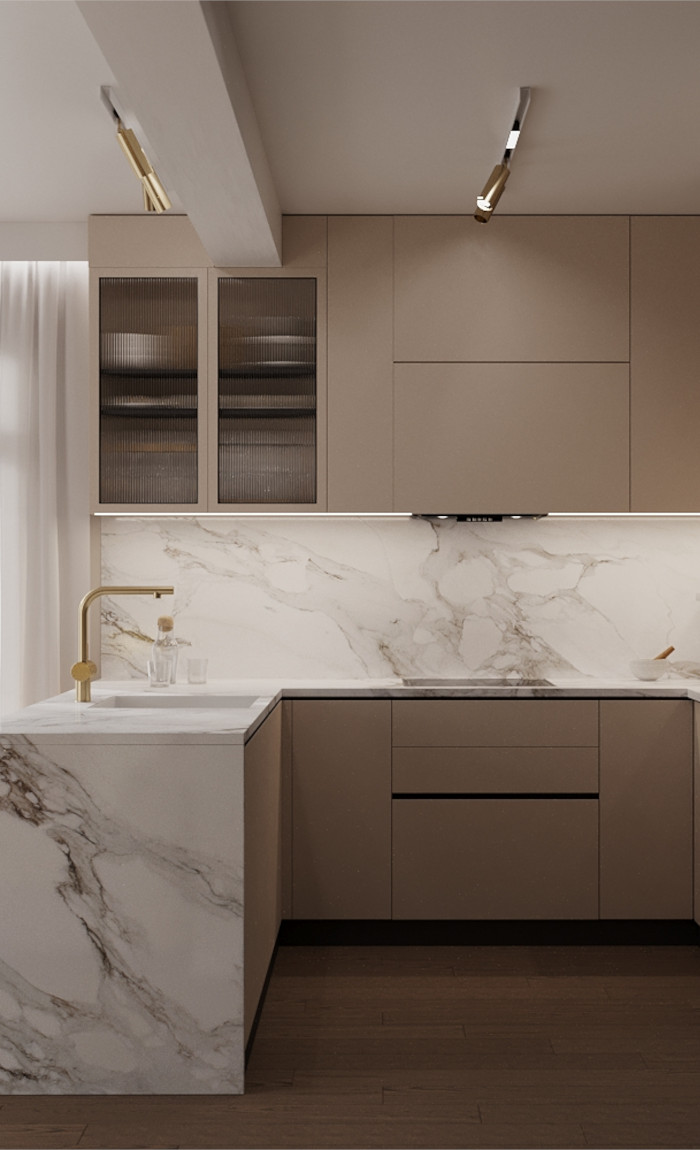
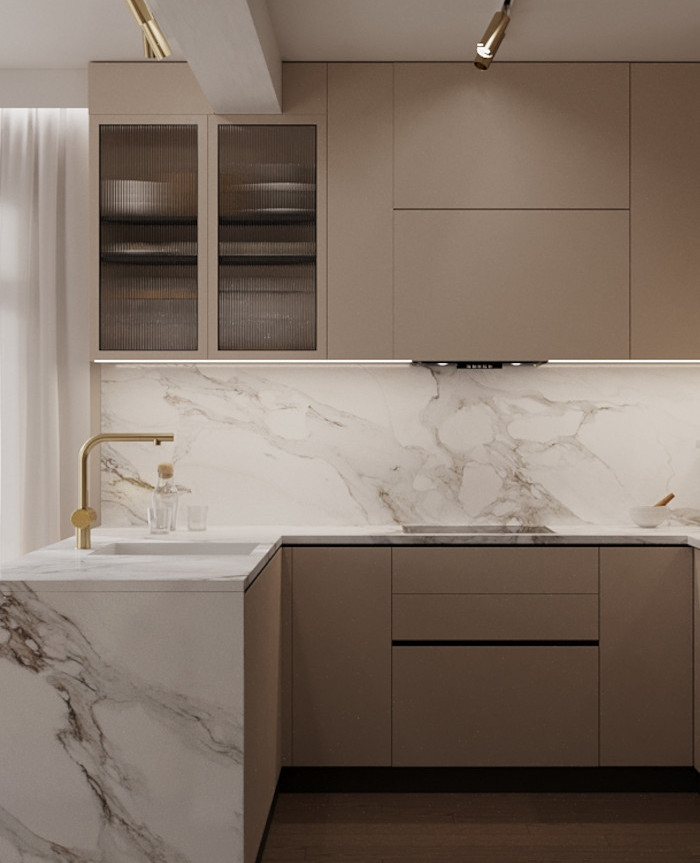
Poprawiony rozmiar strony, edytowane teksty i jpg

diff --git a/oferta.html b/oferta.html
@@ -55,7 +55,7 @@
             </div>
             <div class="row">
                 <div class="col-md-6 col-sm-12" style="padding-left: 15px; padding-right: 15px;">
-                   <img class="img-fluid wow fadeInDown" src="img/photo-1.jpg" alt="Photo">
+                   <img class="img-oferta-arch wow fadeInDown" src="img/arch4.jpg" alt="Photo">
                 </div>
                 <div class="col-md-5 offset-md-1 col-sm-12" style="padding-left: 15px; padding-right: 15px;">
                    <p>
@@ -100,78 +100,14 @@
                    </p>
                 </div>
                 <div class="col-md-6 col-sm-12">
-                    <img class="img-fluid wow fadeInDown" src="img/photo-2.jpg" alt="Photo">
+                    <img class="img-oferta wow fadeInDown" src="img/biuro-4.JPG" alt="Photo">
                  </div>
              </div>
            </div>
         </div>
      </div>
     </div>
-     <!-- End Contact -->
 
-
-
-
-
-
-<!--
-
-
-      <div class="container studio" style="padding-top: 65px; padding-bottom: 30px;">
-         <img src="img/jak-dzialamy.png" id="titlerphoto" class="wow fadeInDown">
-         <div class="row justify-content-center" >
-            <div class="col-md-8 col-sm-12 wow fadeInDown">
-               <p>Nasz zespół tworzą osoby doświadczone, zarówno inżynierzy architekci, wizualizatorzy jak i projektanci – absolwenci Akademii Sztuk Pięknych.
-
-                  Mając odmienne podejścia do projektowania, dopełniamy się nawzajem, tworząc niebanalne wnętrza i architekturę. Na stałe współpracujemy z inżynierami branży sanitarnej, czy elektrycznej.
-                  
-                  Bogate doświadczenie i wiedza pozwalają nam przekuć najśmielsze idee w obiekty dostosowane do potrzeb naszych klientów.  
-               </p>
-               <p>Na każdym etapie realizacji, najwaniejszy składnikiem pracy jest klient - dobierając każdy element, chcemy, aby finalnie projekt architektoiczny lub aranżacja spełniały jego oczekiwania. 
-               </p>
-            </div>
-         </div>
-      </div>
-      <div class="container">
-         <img src="img/wnetrza.png" id="titlerphoto" class=" wow fadeInDown">
-         <div class="row"> 
-            <div class="col-xl-5 col-md-7 col-sm-12  wow fadeInDown">
-               <img class="img-fluid wow fadeInDown" src="img/photo-1.jpg" alt="Photo">
-                </div>
-               
-               <p>Wizualizacja łazienki w mieszkaniu
-               </p>
-               <div class="col-md-5 offset-md-1 col-sm-12">
-
-            </div>
-            </div>
-            <img src="img/architektura.png" id="titlerphoto" class="wow fadeInDown">
-         <div class="row">
-            <div class="col-xl-5 col-md-7 offset-md-4 col-sm-12 pt-5  wow fadeInDown">
-               <img class="img-fluid wow fadeInDown" src="img/photo-2.jpg" alt="Photo">
-               <p>Architektoniczny projekt domu jednorodzinnego</p>
-            </div>
-            <div class="col-md-14 col-sm-12">
-               <p>
-                  Każda inwestycja to indywidualny proces działania zależny od pomysłu klienta, możliwości terenowych w oparciu o prawo budowlane oraz warunki techniczne.
-Wyróżnia nas działanie kompleksowe, od fazy analizy działki czy też obiektu istniejącego, poprzez koncepcję, fazę projektową, gdzie uzyskujemy w imieniu klienta wszelkie niezbędne uzgodnienia, decyzje, opinie (tj.: decyzje o warunkach przyłączenia do sieci, decyzje konserwatorska/ archeologiczna, uzgodnienia z rzeczoznawcami ppoż, do spraw higieniczno sanitarnych i inne zależnie od inwestycji) po uzyskanie pozwolenia na budowę i nadzór autorski nad realizacją.
-Współpracujemy ze sprawdzonymi specjalistami z branży elektrycznej, sanitarnej, drogowej i konstruktorami. Wspólnie przygotowujemy wielobranżowy projekt budowlany i wykonawczy. Pomagamy inwestorom również w formalnościach związanych z rozpoczęciem prac budowlanych.
-Dajemy gwarancję naszym klientom, że ich inwestycje są we właściwych rękach i są realizowane zgodne z przepisami prawa budowlanego oraz warunkami technicznymi.
-               </p>
-               </div>
-         </div>
-      </div>
-      <div class="container studio">
-         <div class="row justify-content-center">
-            <div class="col-md-8 col-sm-12 wow fadeInDown">
-               <p>
-                  Podchodząc do każdego klienta indywidualnie, możemy skupić się na każdym aspekcie realizacji, tak, aby finalny efekt, był idealnym odzwierciedleniem projektu.
-                 Oprócz kwestii estetycznych, znaczącą rolę odgrywa ergonomia i bezpieczeństwo, a także kwestie prawne. 
-               </p>
-            </div>
-         </div>
-      </div>
-      -->
       <!-- End Studio -->
       <!-- Javascript -->
       <script src="vendor/jquery.min.js"></script>

diff --git a/studio.html b/studio.html
@@ -63,15 +63,21 @@
          <img src="img/wnetrza.png" class="titler2photo wow fadeInDown">
          </div>
          <div class="row" style="padding-left: 30px; padding-right: 30px;">
-            <div class="col-xl-5 col-md-7 col-sm-12  wow fadeInDown">
-               <img class="img-fluid wow fadeInDown" src="img/photo-1.jpg" alt="Photo">
-               <p>Wizualizacja łazienki w mieszkaniu</p>
+            <div class="col-xl-5 col-md-7 offset-md-2 col-sm-12 pt-5  wow fadeInDown">
+               <img class="img-pion wow fadeInDown" src="img/wnętrze-17.jpg" alt="Projekt aranżacji kuchni w mieszkaniu">
+               <p>Wizualizacja kuchni w mieszkaniu</p>
             </div>
             <div class="col-md-14 col-sm-12" >
             <p>Wykonujemy projekty aranżacji mieszkań, domów, apartamentów inwestycyjnych. willi luksusowych, pomieszczeń biurowych i innych lokali usługowych.
                Proponujemy kompleksową współpracę od koncepcji po realizację. Po akceptacji oferty rozpoczynamy od dobrej kawy oraz sesji w naszym biurze. Podczas tzw. "burzy mózgów" poznajemy dokładnie potrzeby klienta co do funkcjonalności danych pomieszczeń oraz upodobania kolorystyczno materiałowe. Jeśli jest możliwość przeprowadzamy pomiar pomieszczeń z natury
                W pierwszej kolejność tuż po spotkaniu przygotowujemy zestaw wizualizacji podsumowujący nasze ustalenia z sesji. Po 2-3 poprawkach dochodzimy do rozwiązania w pełni satysfakcjonującego klienta.
                Po akceptacji wizualizacji przechodzimy do przygotowania szczegółowych rysunków technicznych obejmujących poza architekturą instalacje elektryczne, instalacje sanitarne oraz rysunki wykonawcze zabudów meblowych.
+               </p>
+               <div class="col-xl-5 col-md-7 offset-md-4 col-sm-12 pt-5  wow fadeInDown">
+                  <img class="img-poziom wow fadeInDown" src="img/wnętrze-13.jpg" alt="Photo">
+                  <p>Salon w mieszkaniu trzypokojowym</p>
+               </div>
+               <p>
                Etap projektowy kończymy przygotowaniem zestawienia materiałów wraz z ofertami zewnętrznymi na wszystkie elementy zaprojektowane we wnętrzach. współpracujemy m.in. ze sprawdzonymi stolarzami, dostawcami oświetlenia, mebli gotowych, z producentami drzwi i podłóg.
                W skład projektu wchodzą zatem: fotorealistyczne wizualizacje, rysunki techniczne dla wykonawców, zestawienia materiałów wraz z miejscem i ceną zakupu lub zestawienia pod budżet wedle potrzeb inwestora.
                Towarzyszymy również naszym klientom przez cały okres wykończenia inwestycji nadzorując prace wykonawców oraz logistykę zamówień i dostaw. Czuwamy jednocześnie nad prawidłową realizacją zgodną z projektem oraz wyznaczonym przez klienta budżetem.
@@ -82,8 +88,8 @@
             <img src="img/architektura.png" class="titler2photo wow fadeInDown">
             </div>
          <div class="row" style="padding-left: 30px; padding-right: 30px;">
-            <div class="col-xl-5 col-md-7 offset-md-4 col-sm-12 pt-5  wow fadeInDown">
-               <img class="img-fluid wow fadeInDown" src="img/photo-2.jpg" alt="Photo">
+            <div class="col-xl-5 col-md-7 offset-md-5 col-sm-12 pt-5  wow fadeInDown">
+               <img class="img-poziom wow fadeInDown" src="img/arch1.jpg" alt="Photo">
                <p>Architektoniczny projekt domu jednorodzinnego</p>
             </div>
             <div class="col-md-14 col-sm-12">

diff --git a/works.html b/works.html
@@ -52,10 +52,11 @@
          </div>
          <div class="row justify-content-center" style="padding-left: 30px; padding-right: 30px">
             <div class="col-md-8 col-sm-12 wow fadeInDown" style="padding-bottom: 100px">
-               <p style="text-align: justify;">Moya Engineering zostało założone w 2010 roku przez Martę Jasinowską-Czapską, architekta i kreatora wnętrz z wieloletnim doświadczeniem.
+               <p style="text-align: center;">Moya Engineering zostało założone w 2010 roku przez Martę Jasinowską-Czapską, 
+                  <br>architekta i kreatora wnętrz z wieloletnim doświadczeniem.
+                  <br>
                   Biuro działa głównie na terenie Dolnego Śląska, ale nasze projekty realizujemy również w całej Polsce oraz poza jej granicami.
-                  Zajmujemy się projektowaniem architektonicznym oraz aranżacją wnętrz obiektów mieszkalnych, handlowo-usługowych oraz użyteczności publicznej. Poniżej
-                  przedstawiamy galerię projektów w pigułce.  
+                  Przeszło 20 lat doświadczenia w projektowaniu i realizacji, to ponad 200 zakończonych sukcesem projektów i zadowolonych klientów, setki wykonanych zabudów meblowych, tysiące dostarczonych lamp i mebli, tysiące metrów kw. wykończonych ścian i posadzek.
                </p>
             </div>
          </div>

diff --git a/contact.html b/contact.html
@@ -48,14 +48,13 @@
                <div class="row">
                   <div class="col-md-6 col-sm-12">
                      <p>
-                        W razię chęci do umówienia wizyty<br>
-                        prosimy o kontakt
+                       Umów wizytę już teraz
                         <br><br>
-                        telefoniczny:  <br>
+                         Nr telefonu:  <br>
                         +48 782 443 479
                         <br><br>
-                        mailowy:<br>
-                        moya.engineering@gmail.com
+                        Mail:<br>
+                        biuro@b-moya.pl
                      </p>
                   </div>
                   <div class="col-md-5 offset-md-1 col-sm-12">
@@ -71,7 +70,7 @@
          </div>
       </div>
       <!-- End Contact -->
-      <!-- Contact Form -->
+      <!-- Contact Form 
       <div class="container-fluid contact-form">
          <div class="row" style="padding-left: 45px; padding-right: 45px">
             <div class="col-md-10 offset-md-1 col-sm-12">
@@ -85,6 +84,7 @@
             </div>
          </div>
       </div>
+      -->
       <!-- End Contact Form -->
       <!-- Javascript -->
       <script src="vendor/jquery.min.js"></script>

diff --git a/css/style.css b/css/style.css
@@ -13,6 +13,7 @@ html,
 body,
 .Container {
 	height: 100%;
+	width: auto;
 	font-family: 'Alegreya Sans', sans-serif;
 }
 
@@ -71,13 +72,30 @@ p {
 	padding-left: 0px;
 }
 .titler2photo{
-	height: 150px;
+	height: 180px;
 	padding-bottom: 30px;
 	display: flex;
 	margin-left: auto;
 	margin-right: auto;
 	padding-right: 0px;
 	padding-left: 0px;
+}
+
+.img-pion {
+    max-width: 100%;
+    height: auto;
+}
+.img-poziom {
+    max-width: 100%;
+    height: auto;
+}
+.img-oferta{
+	max-width: 100%;
+	height: auto;
+}
+.img-oferta-arch{
+	max-width: 100%;
+	height: auto;
 }
 
 @media screen and (max-width:991px) {
@@ -101,6 +119,21 @@ p {
 	}
 }
 
+@media screen and (min-width: 1000px){
+	.img-pion{
+		width: 85%;
+	}
+	.img-poziom{
+		max-width: 130%;
+	}
+	.img-oferta{
+		width: 70%;
+	}
+	.img-oferta-arch{
+		width: 100%;
+		padding-top: 150px
+	}
+}
 
 /* Spacing */
 

diff --git a/index.html b/index.html
@@ -47,7 +47,7 @@
             <div class="Wrapper">
                <div class="LeftContent col-xl-6 col-sm-12 split-image-left background-1">
                </div>
-               <div class="RightContent col-xl-6 col-sm-12 split-image-right" style="padding-top: 80px">
+               <div class="RightContent col-xl-6 col-sm-12 split-image-right" style="padding-top: 80px;">
                   <div class="row justify-content-center wow fadeInDown">
                      <img src = "img/o-nas.png" class="titlerphoto"/>
                      <div class="col-9">

diff --git a/vendor/bootstrap/css/bootstrap.min.css b/vendor/bootstrap/css/bootstrap.min.css
@@ -504,8 +504,9 @@ mark {
 
 .img-fluid {
     max-width: 100%;
-    height: auto
+    height: auto;
 }
+
 
 .img-thumbnail {
     padding: .25rem;
@@ -654,8 +655,7 @@ pre code {
     display: flex;
     -ms-flex-wrap: wrap;
     flex-wrap: wrap;
-    margin-right: -15px;
-    margin-left: -15px;
+
     padding-top: 0px;
 }
 
